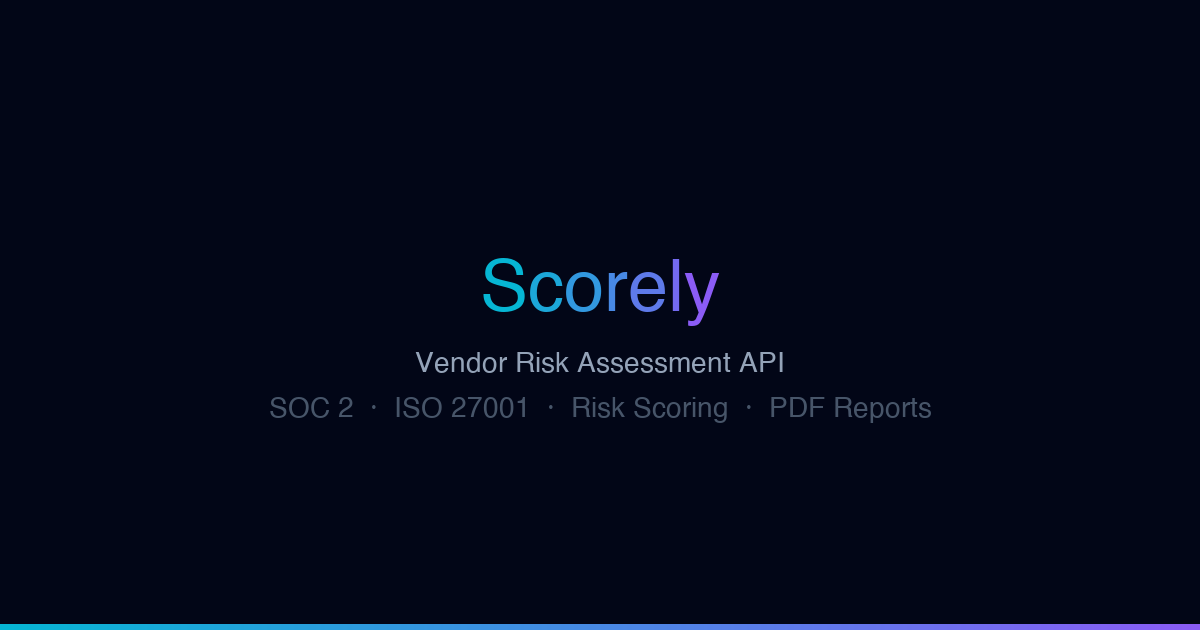
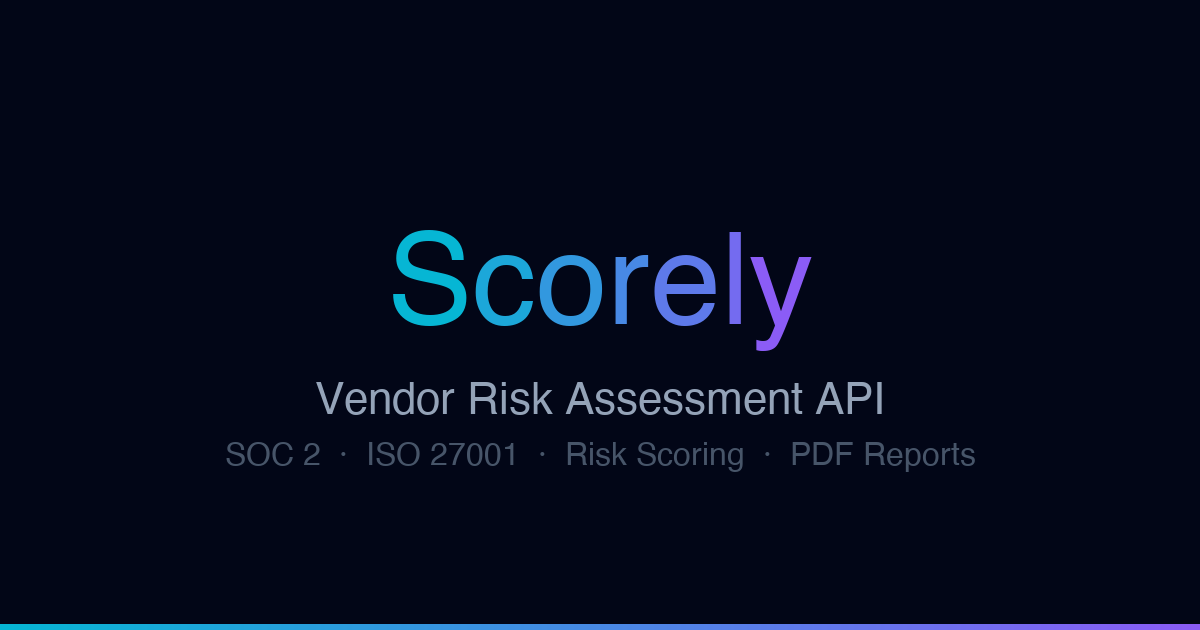
Bump OG text size to fill screen

diff --git a/scripts/generate_og_image.py b/scripts/generate_og_image.py
@@ -22,11 +22,13 @@ def generate_og():
         font_path = os.path.join(base_dir, "..", "frontend", "public", "Inter-SemiBold.ttf")
         if not os.path.exists(font_path):
             font_path = "/System/Library/Fonts/Helvetica.ttc"
-        title_font = ImageFont.truetype(font_path, 72)
-        subtitle_font = ImageFont.truetype(font_path, 28)
+        title_font = ImageFont.truetype(font_path, 128)
+        subtitle_font = ImageFont.truetype(font_path, 44)
+        tag_font = ImageFont.truetype(font_path, 32)
     except (IOError, OSError):
         title_font = ImageFont.load_default()
         subtitle_font = ImageFont.load_default()
+        tag_font = ImageFont.load_default()
 
     title = "Scorely"
     subtitle = "Vendor Risk Assessment API"
@@ -35,7 +37,7 @@ def generate_og():
     bbox = draw.textbbox((0, 0), title, font=title_font)
     tw = bbox[2] - bbox[0]
     tx = (W - tw) / 2
-    ty = H // 2 - 60
+    ty = H // 2 - 90
 
     for i, (char, color) in enumerate(zip(title, _gradient_colors(len(title)))):
         draw.text((tx, ty), char, fill=color, font=title_font)
@@ -44,11 +46,11 @@ def generate_og():
 
     sb = draw.textbbox((0, 0), subtitle, font=subtitle_font)
     sw = sb[2] - sb[0]
-    draw.text(((W - sw) / 2, ty + 95), subtitle, fill="#94a3b8", font=subtitle_font)
+    draw.text(((W - sw) / 2, ty + 155), subtitle, fill="#94a3b8", font=subtitle_font)
 
-    tb = draw.textbbox((0, 0), tagline, font=subtitle_font)
+    tb = draw.textbbox((0, 0), tagline, font=tag_font)
     tw2 = tb[2] - tb[0]
-    draw.text(((W - tw2) / 2, ty + 140), tagline, fill="#475569", font=subtitle_font)
+    draw.text(((W - tw2) / 2, ty + 215), tagline, fill="#475569", font=tag_font)
 
     out_path = os.path.join(base_dir, "..", "frontend", "public", "og-image.png")
     img.save(out_path, "PNG")
